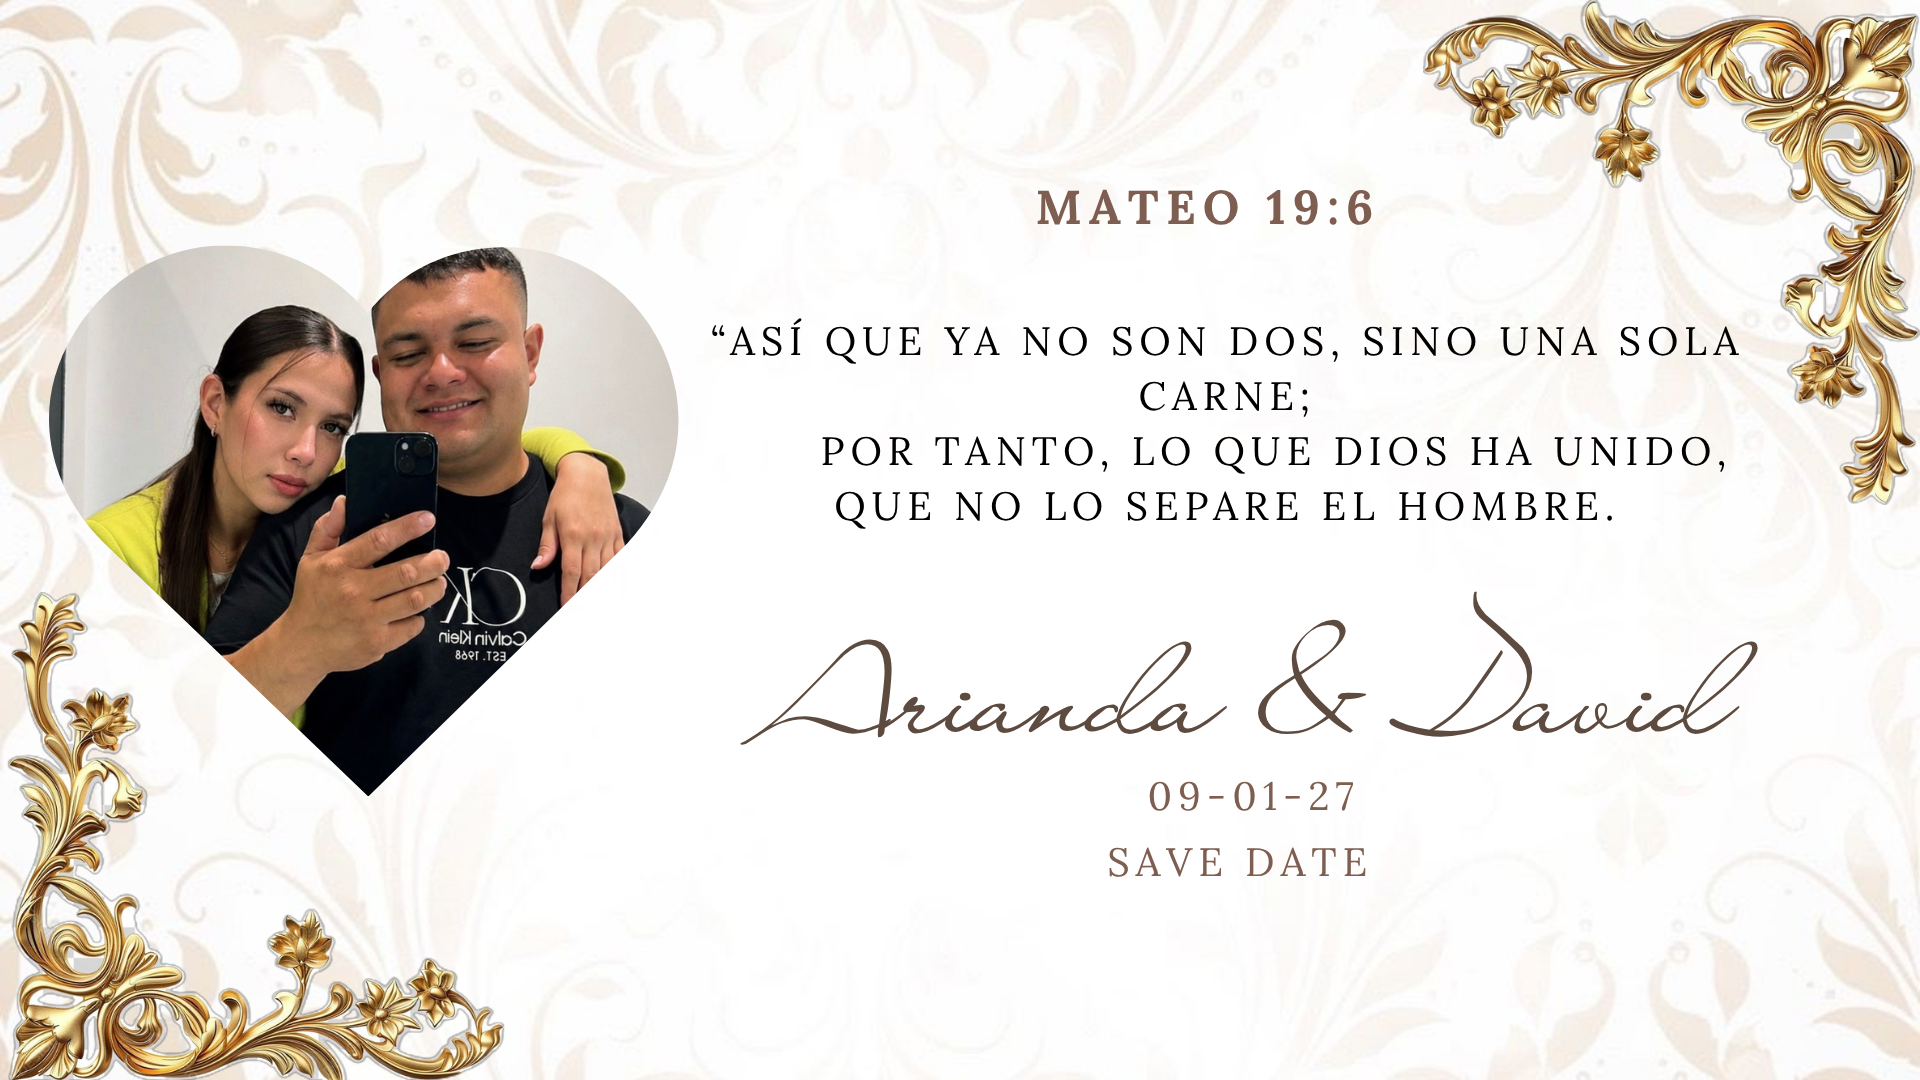
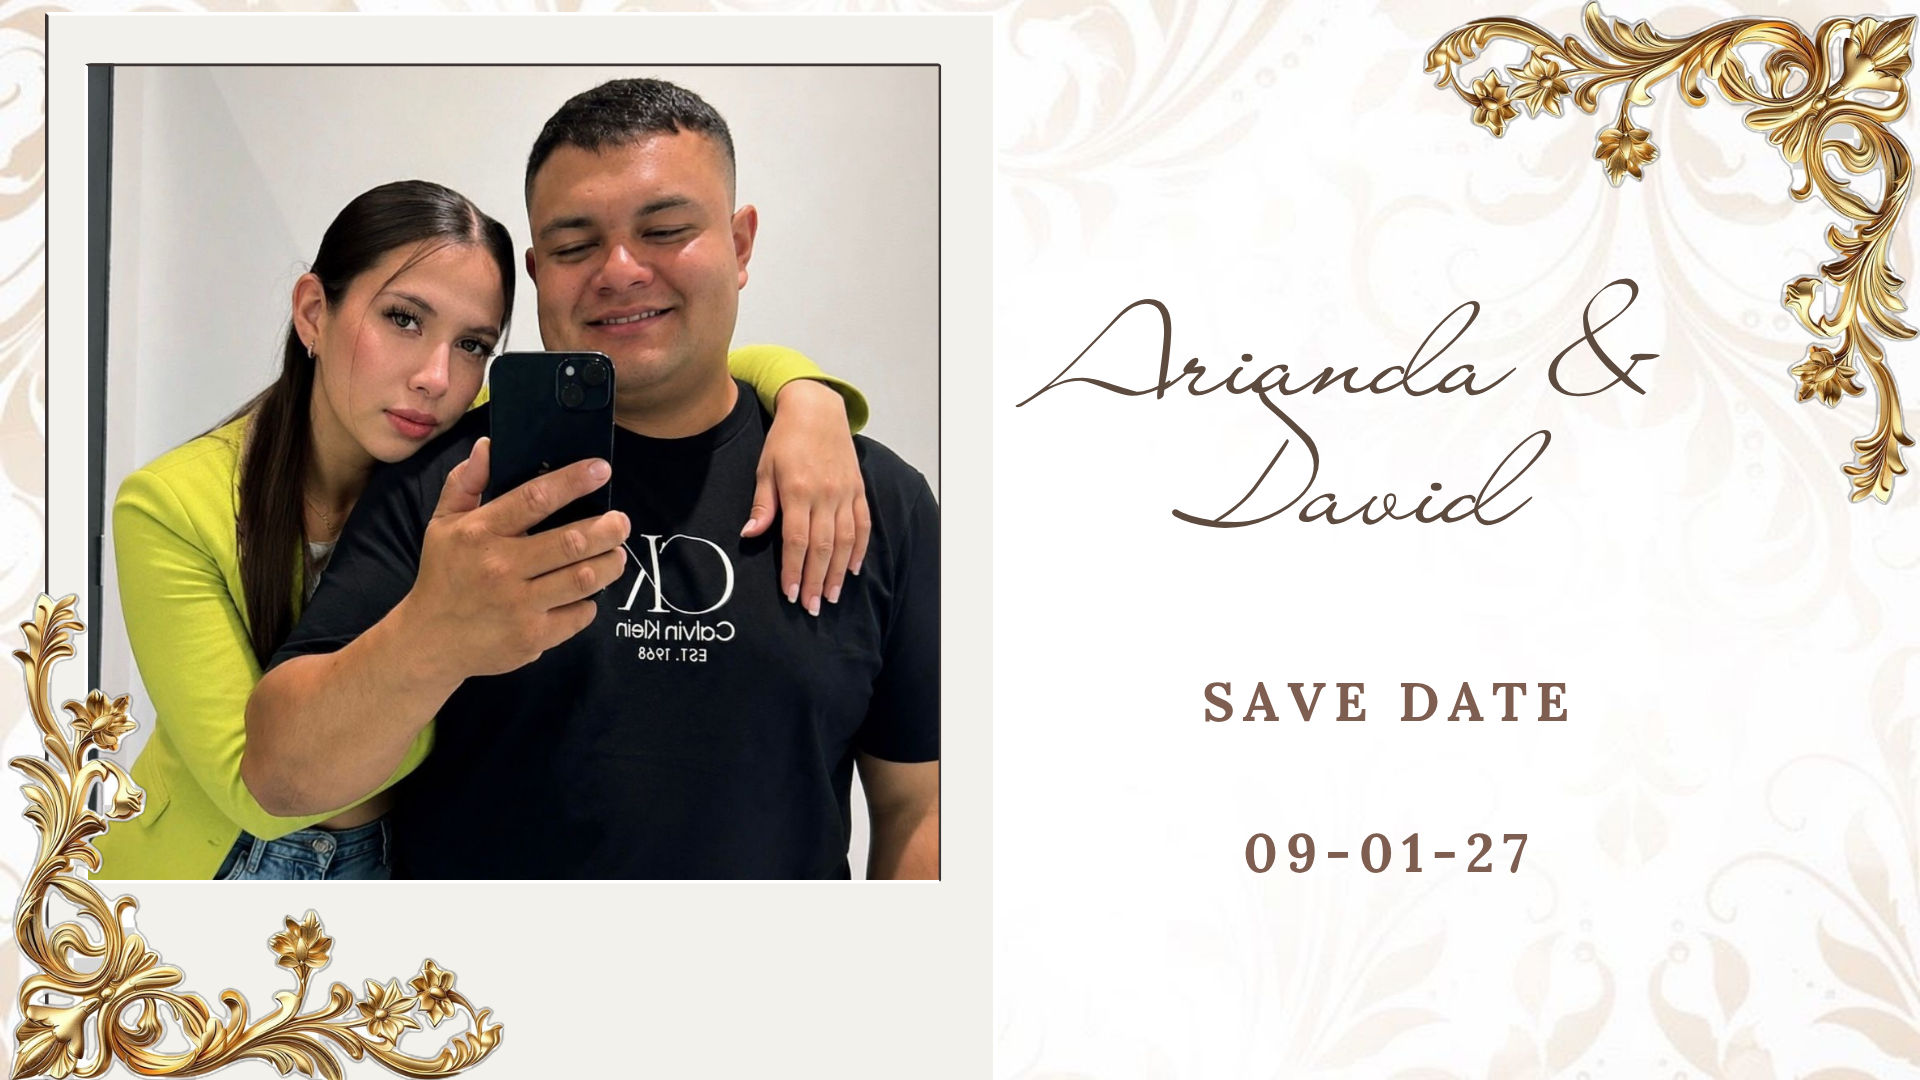
cambio en el final

diff --git a/index.html b/index.html
@@ -583,6 +583,30 @@
 
 </section>
 
+
+<section class="regalos">
+<div class="regalos-card versiculo-card">
+
+
+
+    <h2>
+         Mateo 19:6
+    </h2>
+
+    <p>
+        “Así que ya no son dos, sino una sola carne;
+      por tanto, lo que Dios ha unido, que no lo separe el hombre”
+    </p>
+
+    <div class="decoracion-regalo">
+        ✧ ♡ ✧
+    </div>
+
+</div>
+
+</section>
+
+
 <section class="seccion-imagen">
      <img src="Final.png" alt="David y Ariadna">
      </section> 

diff --git a/style.css b/style.css
@@ -53,7 +53,7 @@ color:var(--texto);
 
 background-color:var(--marfil);
 
-background-image:url("fondo3.jpg");
+background-image:url("fondo1.jpg");
 
 background-size:cover;
 background-position:center;
